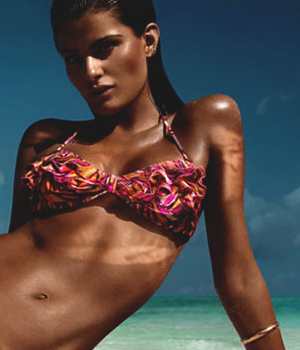
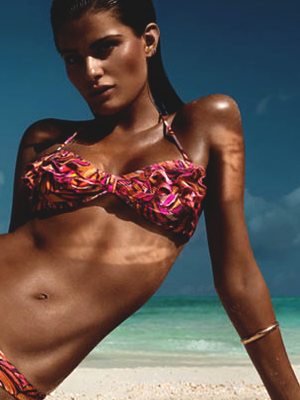
upd thumbs

diff --git a/stylesheets/screen.css b/stylesheets/screen.css
@@ -279,7 +279,7 @@ article a {
 
 /* line 208, ../sass/screen.scss */
 .xl {
-  padding-bottom: 120%;
+  padding-bottom: 150%;
 }
 /* line 210, ../sass/screen.scss */
 .xl .CTA {

diff --git a/sass/screen.scss b/sass/screen.scss
@@ -205,7 +205,7 @@ a { color: #262626; }
 	}
 
 }
-.xl { padding-bottom: 120%; 
+.xl { padding-bottom: 150%; 
 
 	.CTA {
 
